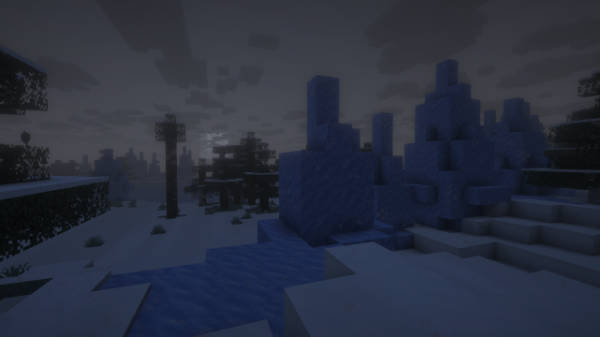
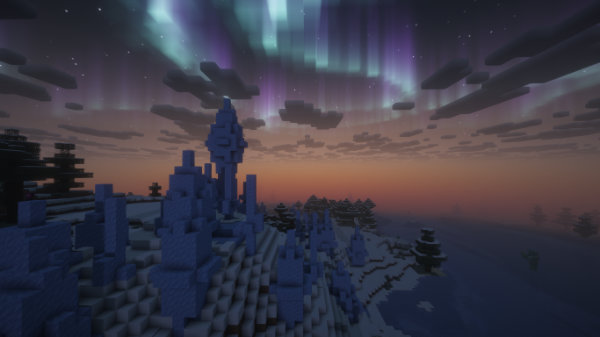
More Telos images

diff --git a/docs/planets.md b/docs/planets.md
@@ -73,6 +73,10 @@ To get the best experience on these planets, it's recommended to enable the [Wee
 - A random loot chest is also located in the structures.
 - You can configure whether [Vastial](https://tardis.wiki/wiki/Vastial) deposits (white concrete powder) occur in the world. Mining vastial gives a chance of dropping gun powder.
 
+![Cryogenic chamber](/images/docs/telos_cryo_1.jpg)
+
+![Cryogenic chamber](/images/docs/telos_cryo_2.jpg)
+
 ## Enabling Planets
 
 All planets must be enabled using the `/tardisworld enable` command. There are some world specific options in

diff --git a/docs/modules/generators.md b/docs/modules/generators.md
@@ -49,6 +49,10 @@ Cold and snowy biomes with Cyber cryogenic chamber structures.
 
 ![Telos world](/images/docs/telos.jpg)
 
+![Cryogenic chamber](/images/docs/telos_cryo_1.jpg)
+
+![Cryogenic chamber](/images/docs/telos_cryo_2.jpg)
+
 ## Configurable flat world
 
 `TARDIS:flat`
